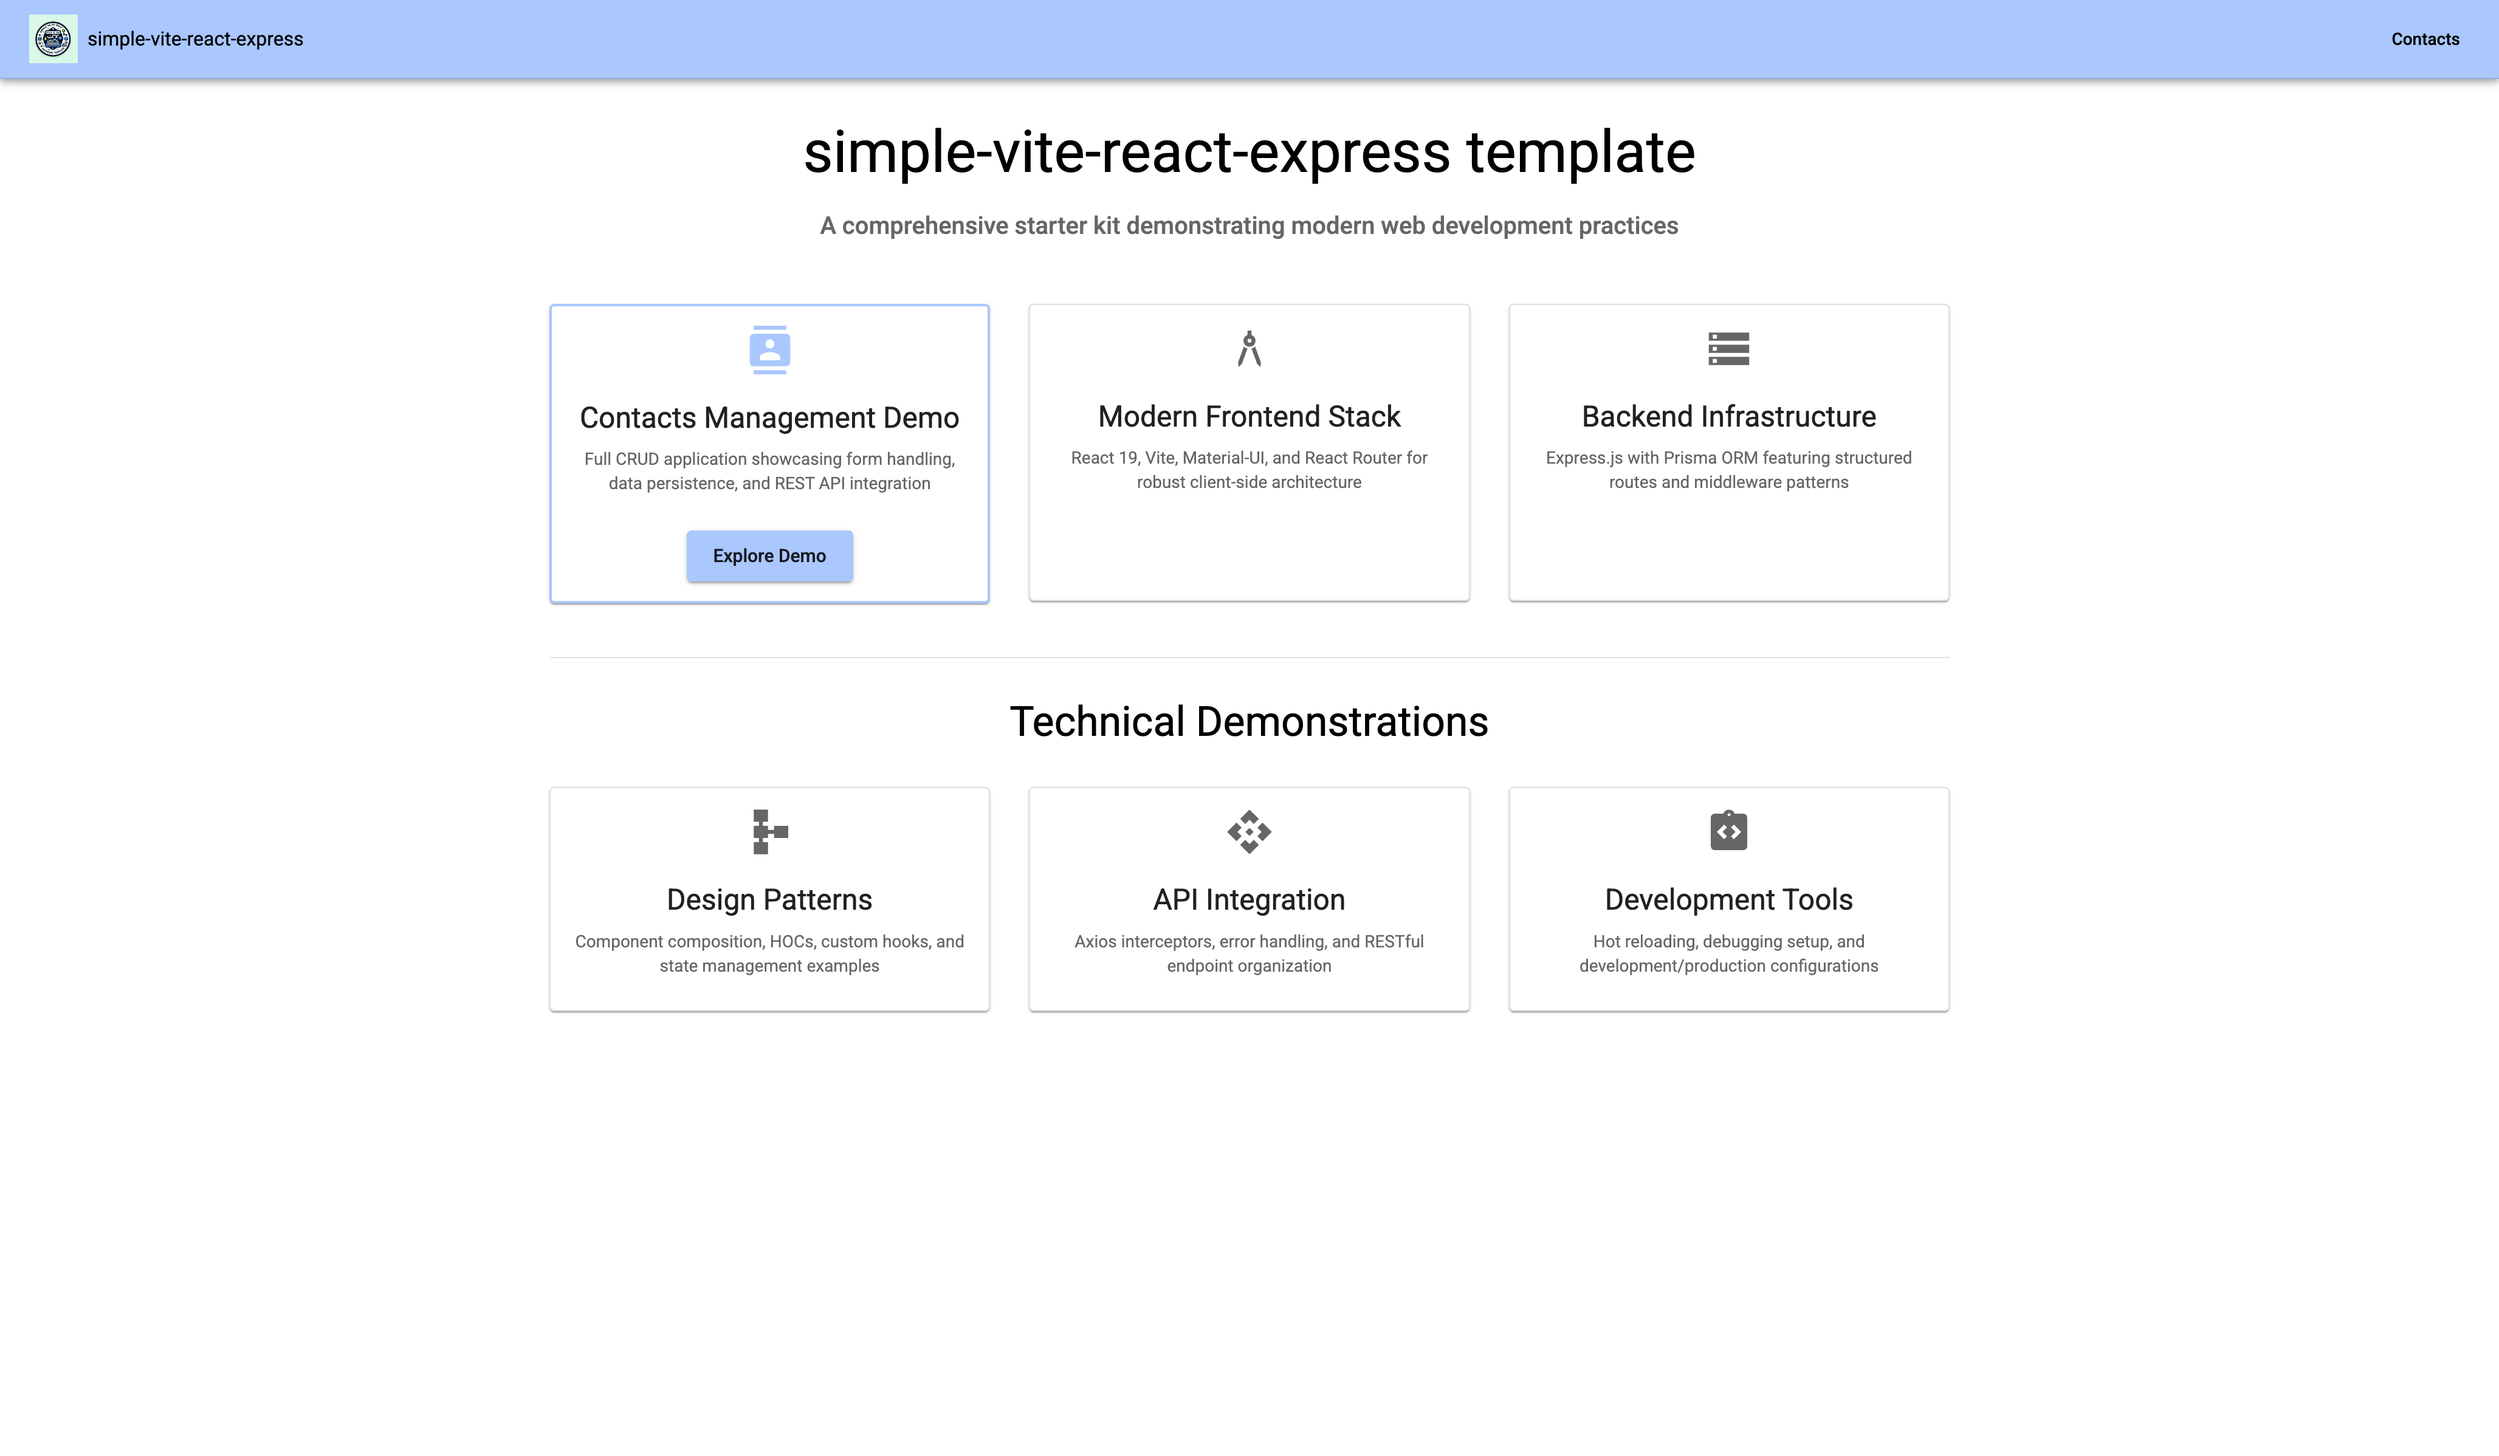
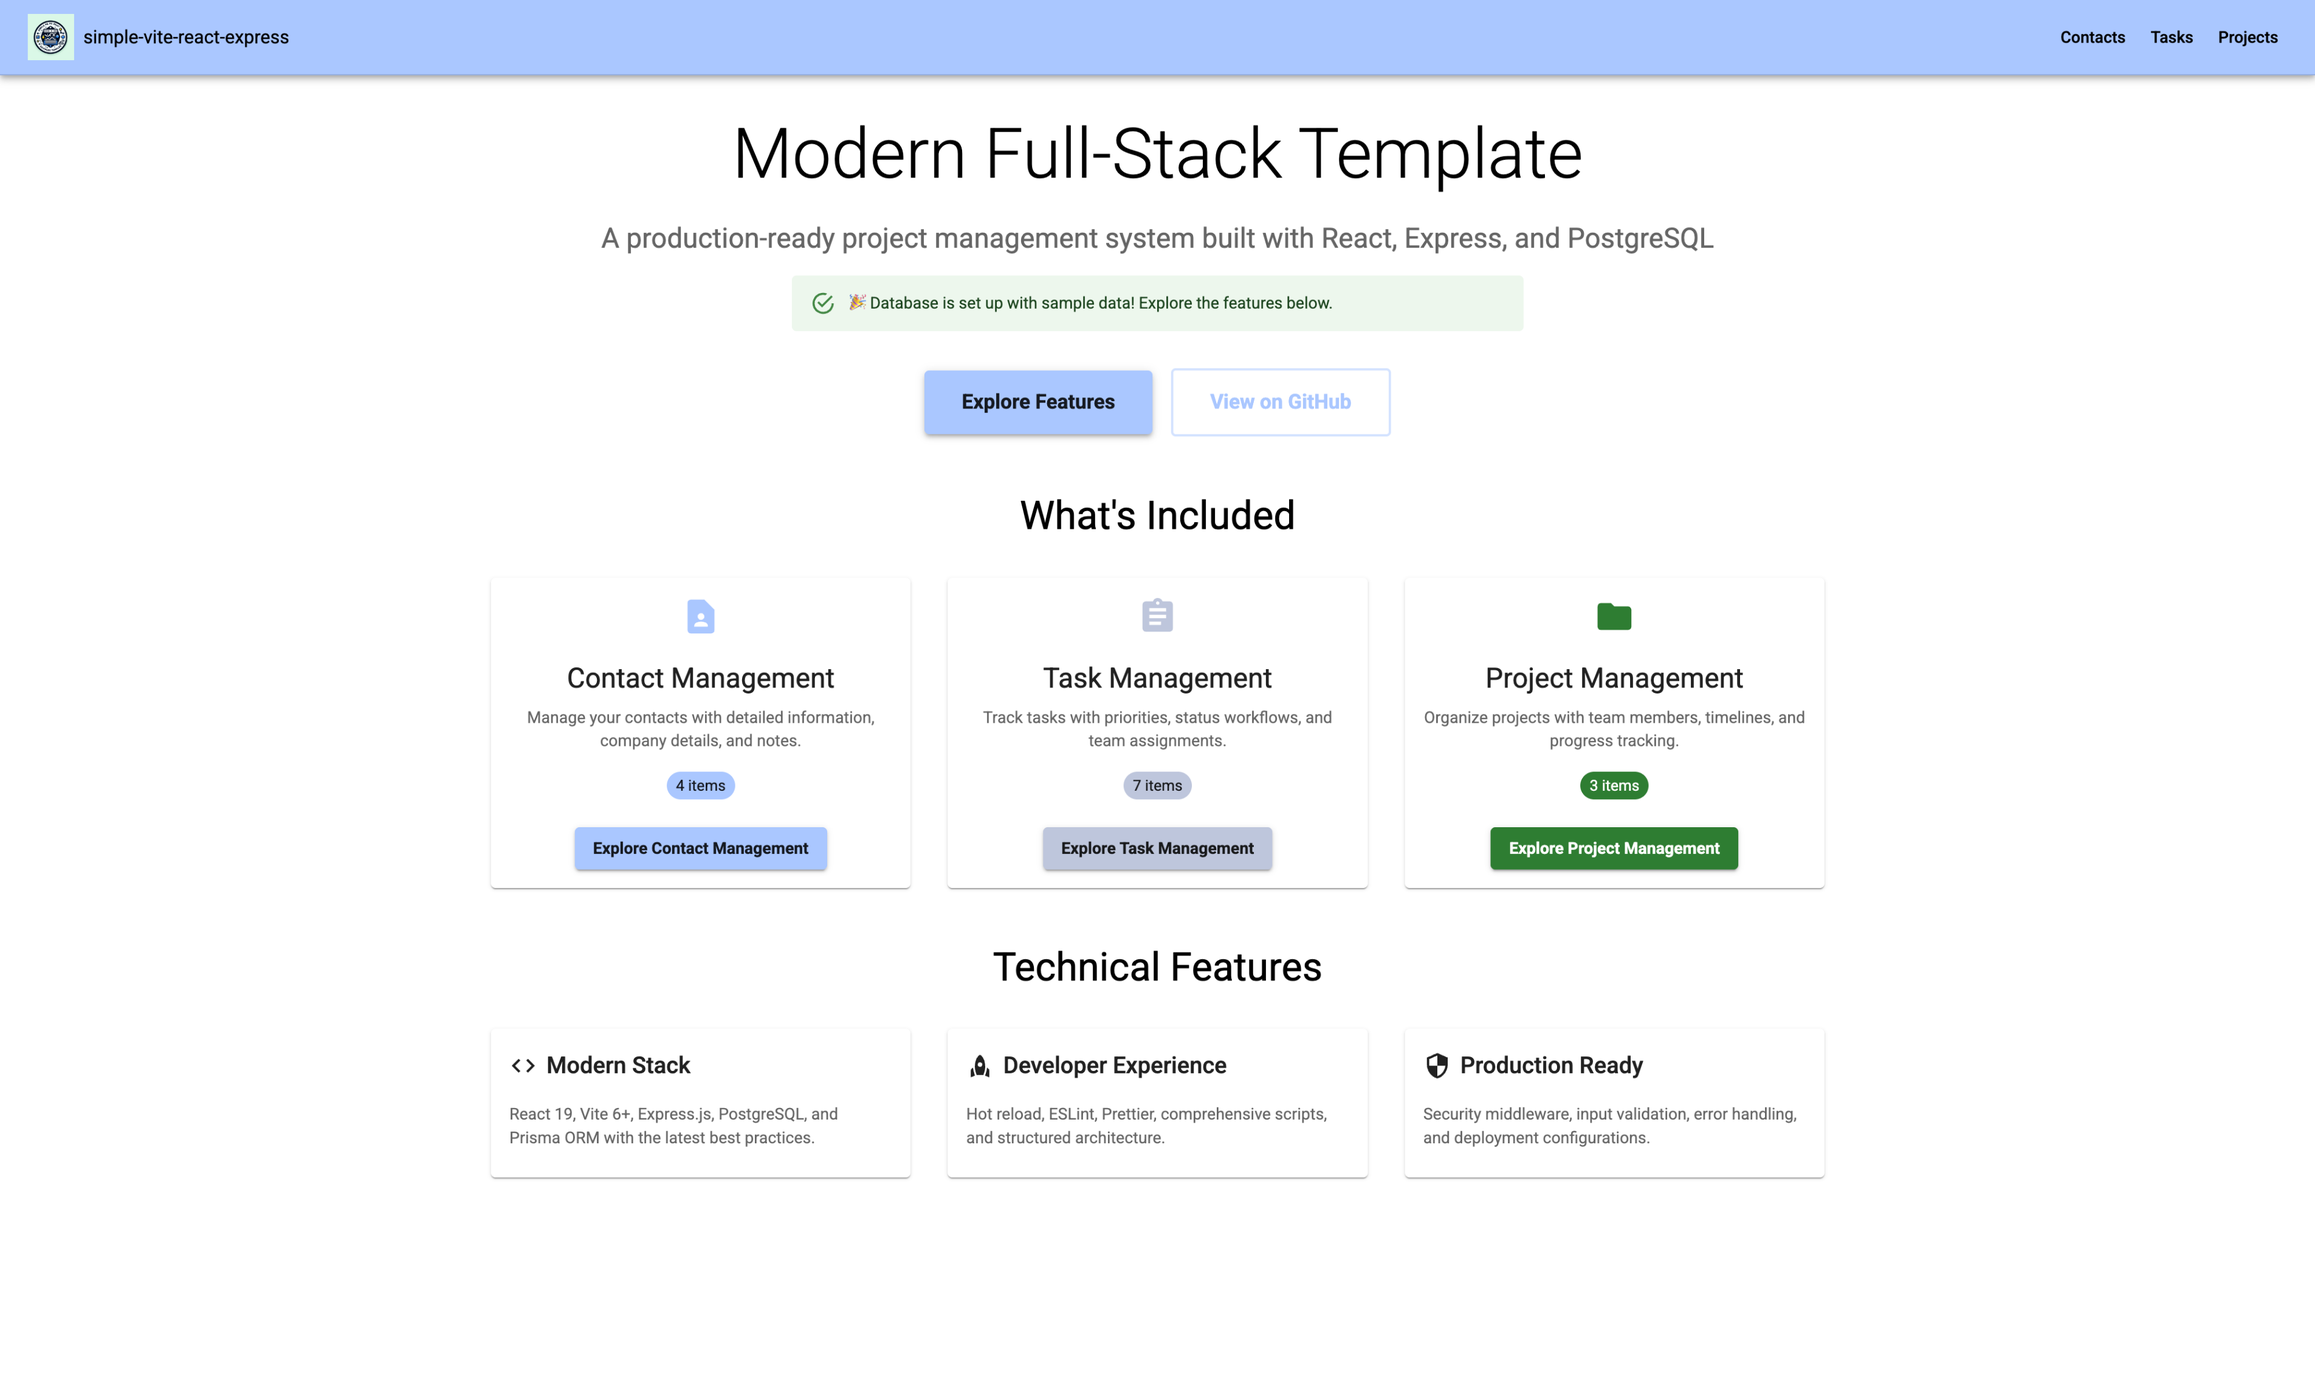
update screens

diff --git a/README.md b/README.md
@@ -1,4 +1,4 @@
-# simple-vite-react-express
+# Simple Vite React Express
 
 <p align="center">
   <img src="./public/template-logo.png" alt="modern-fullstack-template-logo" height="200">
@@ -18,7 +18,11 @@
     <img src="https://img.shields.io/badge/Nodemon-76D04B.svg?style=flat-square&logo=Nodemon&logoColor=white" alt="Nodemon">
 </p>
 
-Full-stack template with modern tooling, best practices, and developer experience optimizations. Built for rapid prototyping and scalable applications.
+A full-stack starter template with working examples instead of empty files. I built this because I was tired of cloning repos with just authentication and a "Hello World" - this one has actual CRUD operations, relationships, and form handling so you can see how things connect together.
+
+<div align="center">
+<img src="screenshots/homepage.png" alt="Homepage" height="400">
+</div>
 
 ## Quick Start
 
@@ -48,26 +52,28 @@ npm run db:setup
 npm run dev
 ```
 
-> Ready in 2 minutes! The template includes hot reload, database setup, and example CRUD operations.
+Open [http://localhost:3000](http://localhost:3000) and you'll see what I mean. Instead of placeholder content, you get:
+- Contact management (create, edit, delete, view details)
+- Task tracking with status changes and priorities
+- Project organization with member assignments
+- Material-UI components that actually do something
+- PostgreSQL with foreign keys and relationships working
 
-## What's New in 2025
+It's basically a simple CRM to demonstrate how the pieces fit together. Good for learning or as a starting point for something bigger.
 
-### Major Updates
+## What This Demonstrates
 
-- **React 19** - Latest React with concurrent features and improved performance
-- **Vite 6+** - Faster builds, improved HMR, and better dev experience
-- **Material-UI v6** - Latest component library with enhanced theming
-- **Modern Tooling** - ESLint 8+, Prettier 3+, updated dependencies
-- **Docker Support** - Production-ready containerization
-- **Enhanced Scripts** - Better DX with comprehensive npm scripts
-- **Security Updates** - Latest security middleware and best practices
+### Actual Working Features
+Most starter templates have a login page and then... nothing. Here you can immediately see how CRUD operations work, how forms connect to the backend, how to handle validation errors, and how the database relationships actually function. It's the stuff you usually have to figure out yourself.
 
-### Developer Experience
+### Common Patterns You'll Need
+The code shows how to structure a multi-model application: contacts, tasks, and projects with relationships between them. You can see how to handle one-to-many (contact has many tasks) and many-to-many (projects have many contacts) relationships. Plus practical things like status enums, optional fields, and proper foreign keys.
 
-- **Code Quality** - ESLint + Prettier configuration
-- **Database Tools** - Enhanced Prisma scripts for better workflow
-- **Hot Reload** - Both client and server with automatic restarts
-- **Type Safety** - TypeScript-ready configuration
+### Full Stack Integration
+The frontend and backend actually talk to each other properly. API routes that return consistent response formats, error handling that shows meaningful messages, form validation on both client and server. You can see the complete data flow instead of guessing how pieces connect.
+
+### Development Setup That Works
+Everything is configured to work together from the start. Vite for fast frontend builds, Nodemon for backend auto-restart, Prisma for database management, and proper environment handling. No hunting for the right configuration or fighting with build tools.
 
 ## Project Structure
 
@@ -139,76 +145,92 @@ npm start            # Start production server
 
 ### Frontend
 
-- ⚡ **Vite 6+** - Lightning fast build tool with HMR
-- ⚛ **React 19** - Latest React with concurrent features
-- 🎨 **Material-UI v6** - Modern component library with theme customization
-- 📝 **Formik + Yup** - Robust form handling and validation
-- 🚦 **React Router v7** - Client-side routing with data loading
-- 🔄 **Axios** - Promise-based HTTP client
-- 🎯 **ESLint + Prettier** - Code quality and formatting
-- 📱 **Responsive Design** - Mobile-first approach
+- Vite 6+ for lightning fast builds and HMR
+- React 19 with latest concurrent features
+- Material-UI v6 with theme customization
+- Formik + Yup for form handling and validation
+- React Router v7 for client-side routing
+- Axios for HTTP requests
+- ESLint + Prettier for code quality
+- Responsive design with mobile-first approach
 
 ### Backend
 
-- 📡 **Express.js** - Fast, minimalist web framework
-- 🗄 **Prisma ORM** - Type-safe database client with migrations
-- 🔐 **Security First** - Helmet, rate limiting, CORS protection
-- 📝 **Structured Architecture** - Routes, services, middleware separation
-- 🔧 **Environment Config** - Secure configuration management
-- ✅ **Input Validation** - Celebrate/Joi schema validation
-- 🚦 **Service Layer** - Clean business logic separation
-- 📊 **Standardized Responses** - Consistent API response format
-- 🔄 **Hot Reload** - Automatic server restart with Nodemon
-- 📈 **Performance Optimized** - Compression, caching headers
+- Express.js minimalist web framework
+- Prisma ORM with type-safe database client and migrations
+- Security middleware - Helmet, rate limiting, CORS protection
+- Structured architecture with routes, services, middleware separation
+- Environment configuration management
+- Input validation with Celebrate/Joi schemas
+- Clean business logic separation with service layer
+- Standardized API response format
+- Hot reload with automatic server restart via Nodemon
+- Performance optimizations with compression and caching headers
 
 ### Development & Deployment
 
-- 🔧 **Modern Tooling** - Latest versions of all dependencies
-- 🐳 **Docker Support** - Multi-stage builds for production
-- 🚀 **Platform Ready** - Vercel, Railway, Render, Heroku support
-- 📊 **Database Seeding** - Sample data for quick development
-- 🔍 **Code Quality** - ESLint, Prettier, and best practices
-- 📚 **Documentation** - Comprehensive guides and examples
+- Modern tooling with latest versions of all dependencies
+- Docker support with multi-stage builds for production
+- Platform ready for Vercel, Railway, Render, Heroku
+- Database seeding with sample data for quick development
+- Code quality tools - ESLint, Prettier, and best practices
+- Comprehensive guides and examples
 
-## First Steps After Cloning
+## Making It Your Own
 
-### 1. Project Setup
+### Basic Customization
+Change the app name in `package.json`, swap out the logo in `/public/template-logo.png`, and update the title in `index.html`. The theme colors are in `src/client/theme/theme.js` if you want to change the look.
 
-- [ ] Update `package.json` (name, version, description, repository)
-- [ ] Update README.md with your project details
-- [ ] Configure Git remote: `git remote set-url origin your-repo-url`
-- [ ] Review and update LICENSE file
+### Database Changes
+The schema in `prisma/schema.prisma` has three example models. You can modify them, add new ones, or delete what you don't need. Just run `npm run db:migrate` after changes. The current setup shows how relationships work if you need that pattern.
 
-### 2. Environment Configuration
+### Adding Features
+The existing code structure makes it pretty straightforward to add new features. Look at how the contact routes are set up in `src/server/routes/v1/contact.route.js` and the corresponding service in `src/server/services/contact.service.js`. Copy that pattern for new functionality.
 
-- [ ] Copy `example.env` to `.env`
-- [ ] Set up PostgreSQL database and update `DATABASE_URL`
-- [ ] Configure `PORT` and `NODE_ENV`
-- [ ] Add any additional environment variables
+### Deployment
+For production, you'll need to set up a PostgreSQL database somewhere and update the `DATABASE_URL` in your environment. The app is configured to serve the built frontend from the Express server, so a single deploy should work on most platforms.
 
-### 3. Database Setup
+## API Overview
 
-- [ ] Review `prisma/schema.prisma`
-- [ ] Modify or remove the example Contact model
-- [ ] Add your own models and relationships
-- [ ] Run `npm run db:setup`
+All API endpoints are prefixed with `/api/v1/` and follow RESTful conventions.
 
-### 4. Frontend Customization
+### Contact Management
+```bash
+GET    /contact/list     # Get all contacts
+GET    /contact/:id      # Get specific contact  
+POST   /contact          # Create new contact
+PUT    /contact/:id      # Update contact
+DELETE /contact/:id      # Delete contact
+```
 
-- [ ] Update title and meta tags in `index.html`
-- [ ] Replace logo and favicon in `/public`
-- [ ] Modify theme in `src/client/theme/theme.js`
-- [ ] Update Header component with your app name
-- [ ] Plan and implement your route structure
+### Task Management  
+```bash
+GET    /task/list        # Get all tasks
+GET    /task/:id         # Get specific task
+POST   /task             # Create new task
+PUT    /task/:id         # Update task
+DELETE /task/:id         # Delete task
+```
 
-## API Response Format
+### Project Management
+```bash
+GET    /project/list     # Get all projects
+GET    /project/:id      # Get specific project
+POST   /project          # Create new project
+PUT    /project/:id      # Update project
+DELETE /project/:id      # Delete project
+```
 
-All API endpoints return responses in a standardized format:
+### Health Check
+```bash
+GET    /health           # Server status check
+```
 
+All endpoints return standardized JSON responses:
 ```javascript
 {
   "success": boolean,    // Operation status
-  "data": any,          // Response payload
+  "data": any,          // Response payload  
   "message": string,    // Human-readable message
   "timestamp": string   // ISO timestamp
 }
@@ -257,30 +279,31 @@ The template includes a comprehensive project management system demonstrating:
 
 ## Screenshots
 
-<details>
-<summary>📸 View Application Screenshots</summary>
+Here's what you get when you run it:
 
-### Homepage
+<div align="center">
 
-![Homepage](/screenshots/homepage.png)
+### Contact Management
+<img src="screenshots/contacts.png" alt="Contacts List" height="400">
 
-### Contacts Overview
+### Task Management
+<img src="screenshots/tasks.png" alt="Task Management" height="400">
 
-![Contacts Landing](/screenshots/contacts-landing.png)
-
-### Contact List
-
-![Contacts List](/screenshots/contacts.png)
+### Project Management
+<img src="screenshots/projects.png" alt="Project Management" height="400">
 
 ### Contact Details
+<img src="screenshots/contact-detail.png" alt="Contact Details" height="400">
 
-![Contact Details](/screenshots/contact-detail.png)
+### Form Handling
+<img src="screenshots/new-contacts.png" alt="New Contact Form" height="400">
 
-### New Contact Form
+### Empty States
+<img src="screenshots/contacts-landing.png" alt="Empty State" height="400">
 
-![New Contact](/screenshots/new-contacts.png)
+</div>
 
-</details>
+You can see how data tables work with edit/delete actions, form validation in practice, and how to handle empty states. It's all functional, not just mock-ups.
 
 ## Contributing
 
